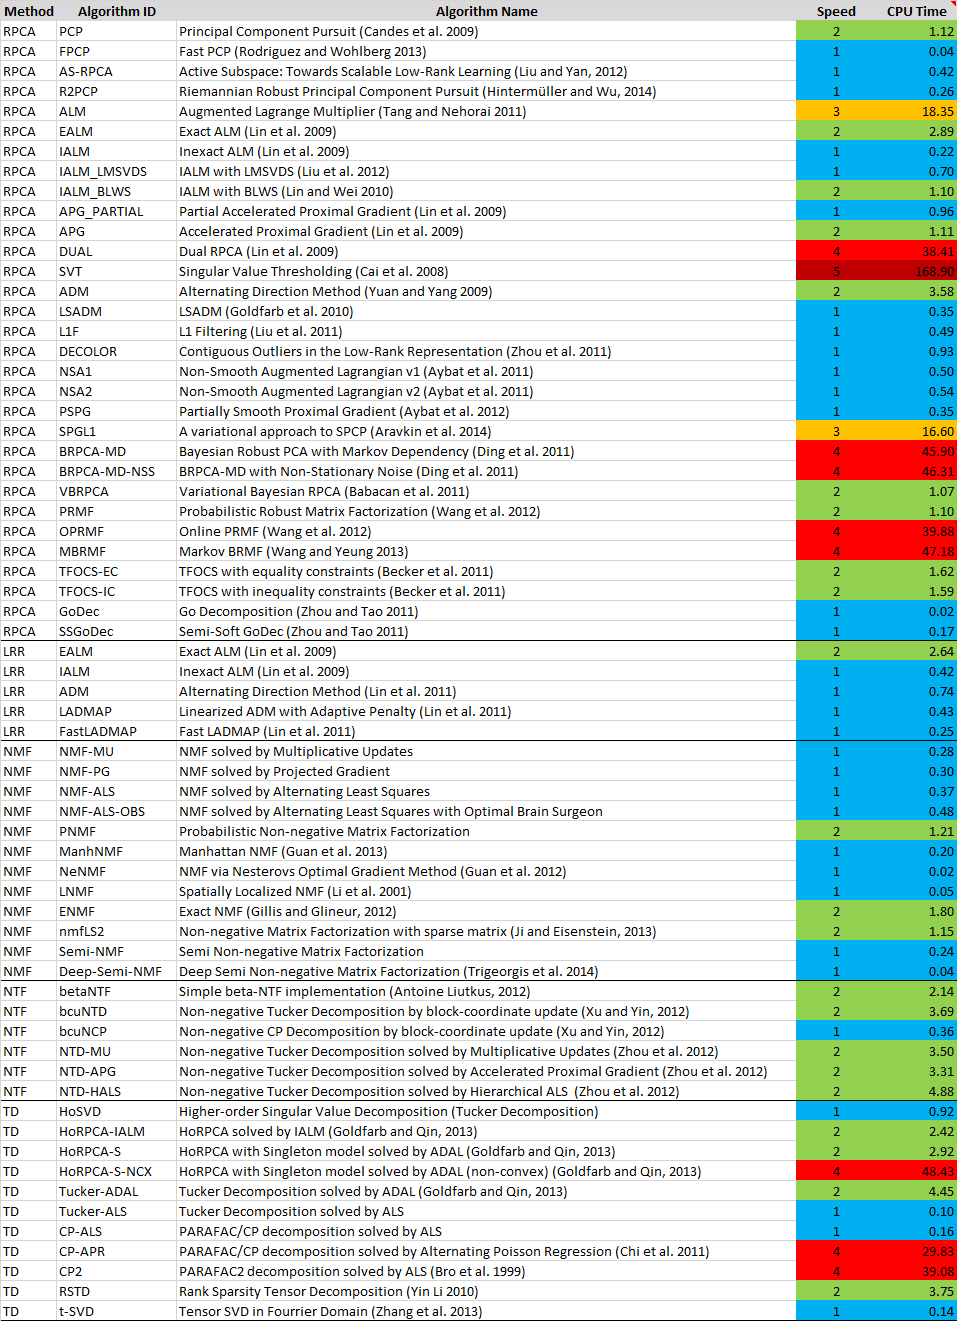
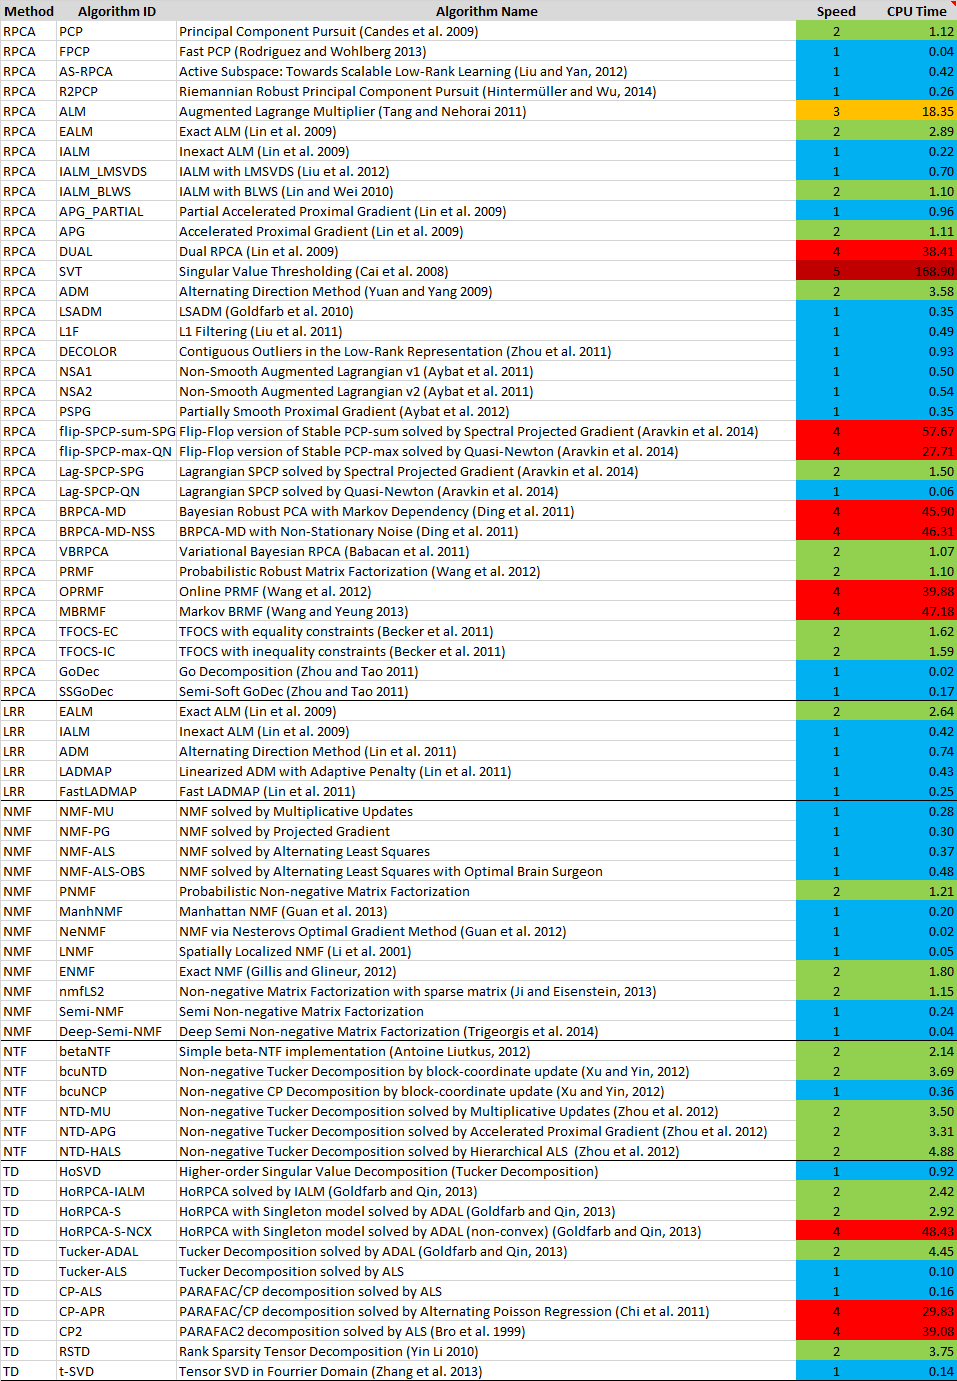
Added RPCA-SPCP algorithms

diff --git a/run_algorithm_rpca.m b/run_algorithm_rpca.m
@@ -528,23 +528,52 @@ function results = run_algorithm_rpca(algorithm_id, M, opts)
     rmpath('algorithms/rpca/TFOCS');
   end
   %
-  % SPGL1: A variational approach to SPCP (Aravkin et al. 2014)
-  % process_video('RPCA', 'SPGL1', 'dataset/demo.avi', 'output/demo_SPGL1.avi');
-  % process_video('RPCA', 'SPGL1', 'dataset/escalator.avi', 'output/escalator_SPGL1.avi');
-  if(strcmp(algorithm_id,'SPGL1')) 
+  % A variational approach to SPCP (Aravkin et al. 2014)
+  %
+  % RPCA | SPCP-sum-SPG | Stable PCP-sum solved by Spectral Projected Gradient (Aravkin et al. 2014)
+  % RPCA | SPCP-max-QN  | Stable PCP-max solved by Quasi-Newton (Aravkin et al. 2014)
+  % RPCA | Lag-SPCP-SPG | Lagrangian SPCP solved by Spectral Projected Gradient (Aravkin et al. 2014)
+  % RPCA | Lag-SPCP-QN  | Lagrangian SPCP solved by Quasi-Newton (Aravkin et al. 2014)
+  %
+  % process_video('RPCA', 'flip-SPCP-sum-SPG', 'dataset/demo.avi', 'output/demo_flip-SPCP-sum-SPG.avi');
+  % process_video('RPCA', 'flip-SPCP-max-QN', 'dataset/demo.avi', 'output/demo_flip-SPCP-max-QN.avi');
+  % process_video('RPCA', 'Lag-SPCP-SPG', 'dataset/demo.avi', 'output/demo_Lag-SPCP-SPG.avi');
+  % process_video('RPCA', 'Lag-SPCP-QN', 'dataset/demo.avi', 'output/demo_Lag-SPCP-QN.avi');
+  if(strcmp(algorithm_id,'flip-SPCP-sum-SPG') ...
+  || strcmp(algorithm_id,'flip-SPCP-max-QN') ...
+  || strcmp(algorithm_id,'Lag-SPCP-SPG') ...
+  || strcmp(algorithm_id,'Lag-SPCP-QN')) 
     addpath('algorithms/rpca/SPGL1');
     nFrames     = size(M,2);
-    %lambda      = 2e-2;
     lambda      = 1/sqrt(max(size(M,1),size(M,2)));
     L0          = repmat(median(M,2), 1, nFrames);
     S0          = M - L0;
     epsilon     = 5e-3*norm(M,'fro'); % tolerance for fidelity to data
-    opts        = struct('sum',false,'L0',L0,'S0',S0,'max',true,...
-        'tau0',3e5,'SPGL1_tol',1e-1,'tol',1e-3);
+    
     timerVal = tic;
-    [L, S] = solver_RPCA_SPGL1(M,lambda,epsilon,[],opts); % imagesc(L); imagesc(S);
+    if(strcmp(algorithm_id,'flip-SPCP-sum-SPG')) % Flip-Flop version of SPCP-sum solved by Spectral Projected Gradient
+      opts = struct('sum',true,'L0',L0,'S0',S0,'max',false,...
+                    'tau0',3e5,'SPGL1_tol',1e-1,'tol',1e-3);
+      [L,S] = solver_RPCA_SPGL1(M,lambda,epsilon,[],opts);
+    end
+    if(strcmp(algorithm_id,'flip-SPCP-max-QN')) % Flip-Flop version pf SPCP-max solved by Quasi-Newton
+      opts = struct('sum',false,'L0',L0,'S0',S0,'max',true,...
+                    'tau0',3e5,'SPGL1_tol',1e-1,'tol',1e-3);
+      [L,S] = solver_RPCA_SPGL1(M,lambda,epsilon,[],opts);
+    end
+    if(strcmp(algorithm_id,'Lag-SPCP-SPG')) % Lagrangian SPCP solved by Spectral Projected Gradient
+      opts    = struct('sum',false,'L0',L0,'S0',S0,'max',false,'tol',1e-3);
+      lambdaL = 0.25; lambdaS = 0.01; % (Aravkin et al. 2014)
+      [L,S] = solver_RPCA_Lagrangian(M,lambdaL,lambdaS,[],opts);
+    end
+    if(strcmp(algorithm_id,'Lag-SPCP-QN')) % Lagrangian SPCP solved by Quasi-Newton
+      opts    = struct('sum',false,'L0',L0,'S0',S0,'max',false,'tol',1e-3,'quasiNewton',true);
+      lambdaL = 0.25; lambdaS = 0.01;
+      [L,S] = solver_RPCA_Lagrangian(M,lambdaL,lambdaS,[],opts);
+    end
     cputime = toc(timerVal);
-    clear nFrames lambda L0 S0 epsilon opts;
+    
+    clear nFrames lambda lambdaL lambdaS L0 S0 epsilon opts;
     rmpath('algorithms/rpca/SPGL1');
   end
   %

diff --git a/algorithms/rpca/SPGL1/vec.m b/algorithms/rpca/SPGL1/vec.m
@@ -1,0 +1,40 @@
+% Y = VEC(x)  Given an m x n matrix x, this produces the vector Y of length
+%   m*n that contains the columns of the matrix x, stacked below each other.
+%
+% See also mat.
+
+function x = vec(X)
+
+%
+% This file is part of SeDuMi 1.1 by Imre Polik and Oleksandr Romanko
+% Copyright (C) 2005 McMaster University, Hamilton, CANADA  (since 1.1)
+%
+% Copyright (C) 2001 Jos F. Sturm (up to 1.05R5)
+%   Dept. Econometrics & O.R., Tilburg University, the Netherlands.
+%   Supported by the Netherlands Organization for Scientific Research (NWO).
+%
+% Affiliation SeDuMi 1.03 and 1.04Beta (2000):
+%   Dept. Quantitative Economics, Maastricht University, the Netherlands.
+%
+% Affiliations up to SeDuMi 1.02 (AUG1998):
+%   CRL, McMaster University, Canada.
+%   Supported by the Netherlands Organization for Scientific Research (NWO).
+%
+% This program is free software; you can redistribute it and/or modify
+% it under the terms of the GNU General Public License as published by
+% the Free Software Foundation; either version 2 of the License, or
+% (at your option) any later version.
+%
+% This program is distributed in the hope that it will be useful,
+% but WITHOUT ANY WARRANTY; without even the implied warranty of
+% MERCHANTABILITY or FITNESS FOR A PARTICULAR PURPOSE.  See the
+% GNU General Public License for more details.
+%
+% You should have received a copy of the GNU General Public License
+% along with this program; if not, write to the Free Software
+% Foundation, Inc.,  51 Franklin Street, Fifth Floor, Boston, MA
+% 02110-1301, USA
+%
+
+[m n] = size(X);
+x = reshape(X,m*n,1);

diff --git a/README.md b/README.md
@@ -1,4 +1,4 @@
-Last update: **13/11/2014**
+Last update: **16/11/2014**
 
 Library Version: **1.0.1**
 
@@ -6,7 +6,7 @@ LRSLibrary
 ----------
 *Low-Rank and Sparse* tools for Background Modeling and Subtraction in Videos.
 
-The *LRSLibrary* provides a collection of **low-rank and sparse decomposition** algorithms in MATLAB. The library was designed for motion segmentation in videos, but it can be also used or adapted for other computer vision problems, please see this [page](http://perception.csl.illinois.edu/matrix-rank/applications.html). Currently the LRSLibrary contains a total of **65** *matrix-based* and *tensor-based* algorithms. The LRSLibrary was tested successfully in MATLAB R2013b both x86 and x64 versions.
+The *LRSLibrary* provides a collection of **low-rank and sparse decomposition** algorithms in MATLAB. The library was designed for motion segmentation in videos, but it can be also used or adapted for other computer vision problems, please see this [page](http://perception.csl.illinois.edu/matrix-rank/applications.html). Currently the LRSLibrary contains a total of **68** *matrix-based* and *tensor-based* algorithms. The LRSLibrary was tested successfully in MATLAB R2013b both x86 and x64 versions.
 
 <p align="center"><img src="https://sites.google.com/site/andrewssobral/lrs_results2.png" /></p>
 
@@ -58,7 +58,7 @@ Each algorithm is classified by its cpu time consumption with the following icon
 
 List of the algorithms available in LRSLibrary
 ----------------------------------------------
-* RPCA: Robust PCA (31)
+* RPCA: Robust PCA (34)
 * * PCP: Principal Component Pursuit [(Candes et al. 2009)](http://arxiv.org/abs/0912.3599) 
 
 * * FPCP: Fast PCP [(Rodriguez and Wohlberg 2013)](http://ieeexplore.ieee.org/xpl/articleDetails.jsp?arnumber=6738015) 
@@ -99,7 +99,13 @@ List of the algorithms available in LRSLibrary
 
 * * PSPG: Partially Smooth Proximal Gradient [(Aybat et al. 2012)](http://arxiv.org/abs/1309.6976) 
 
-* * SPGL1: A variational approach to SPCP [(Aravkin et al. 2014)](https://github.com/stephenbeckr/fastRPCA)
+* * flip-SPCP-sum-SPG: Flip-Flop version of Stable PCP-sum solved by Spectral Projected Gradient [(Aravkin et al. 2014)](https://github.com/stephenbeckr/fastRPCA)
+
+* * flip-SPCP-max-QN: Flip-Flop version of Stable PCP-max solved by Quasi-Newton [(Aravkin et al. 2014)](https://github.com/stephenbeckr/fastRPCA)
+
+* * Lag-SPCP-SPG: Lagrangian SPCP solved by Spectral Projected Gradient [(Aravkin et al. 2014)](https://github.com/stephenbeckr/fastRPCA)
+
+* * Lag-SPCP-QN: Lagrangian SPCP solved by Quasi-Newton [(Aravkin et al. 2014)](https://github.com/stephenbeckr/fastRPCA)
 
 * * BRPCA-MD: Bayesian Robust PCA with Markov Dependency [(Ding et al. 2011)](http://people.ee.duke.edu/~lcarin/LRS_09.pdf) [website](http://people.ee.duke.edu/~lcarin/BCS.html)
 
@@ -273,6 +279,6 @@ If you have any problems or questions, please contact the author: Andrews Sobral
 
 Release Notes:
 --------------
-* Version 1.0.1: Added RPCA-SPGL1 from Aravkin et al. (2014), thanks to Professor [Stephen Becker](http://amath.colorado.edu/faculty/becker/)
+* Version 1.0.1: Added RPCA-SPCP algorithms from Aravkin et al. (2014), thanks to Professor [Stephen Becker](http://amath.colorado.edu/faculty/becker/)
 
 * Version 1.0.0: First version with 64 algorithms.
